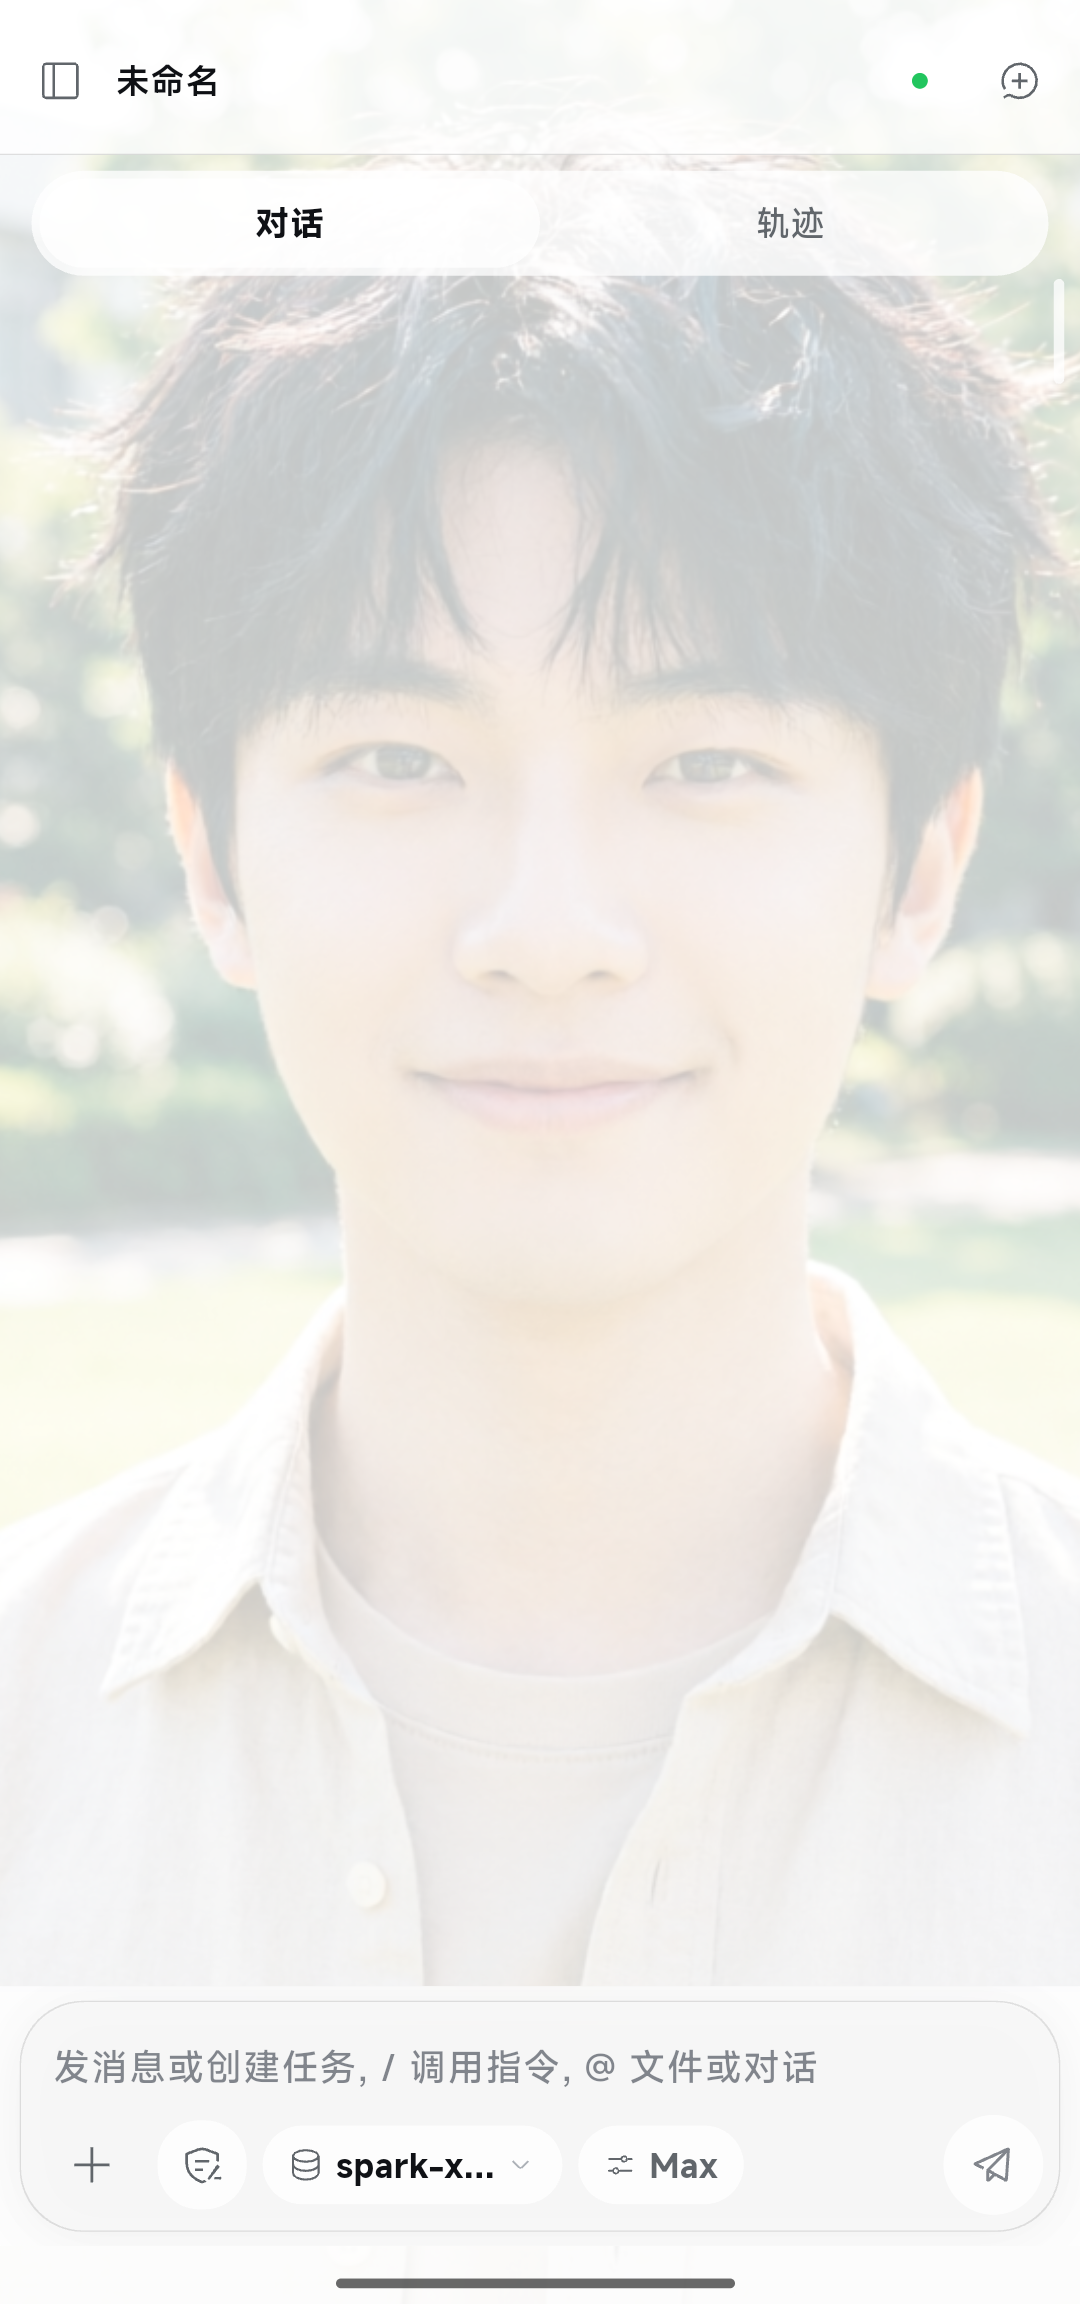
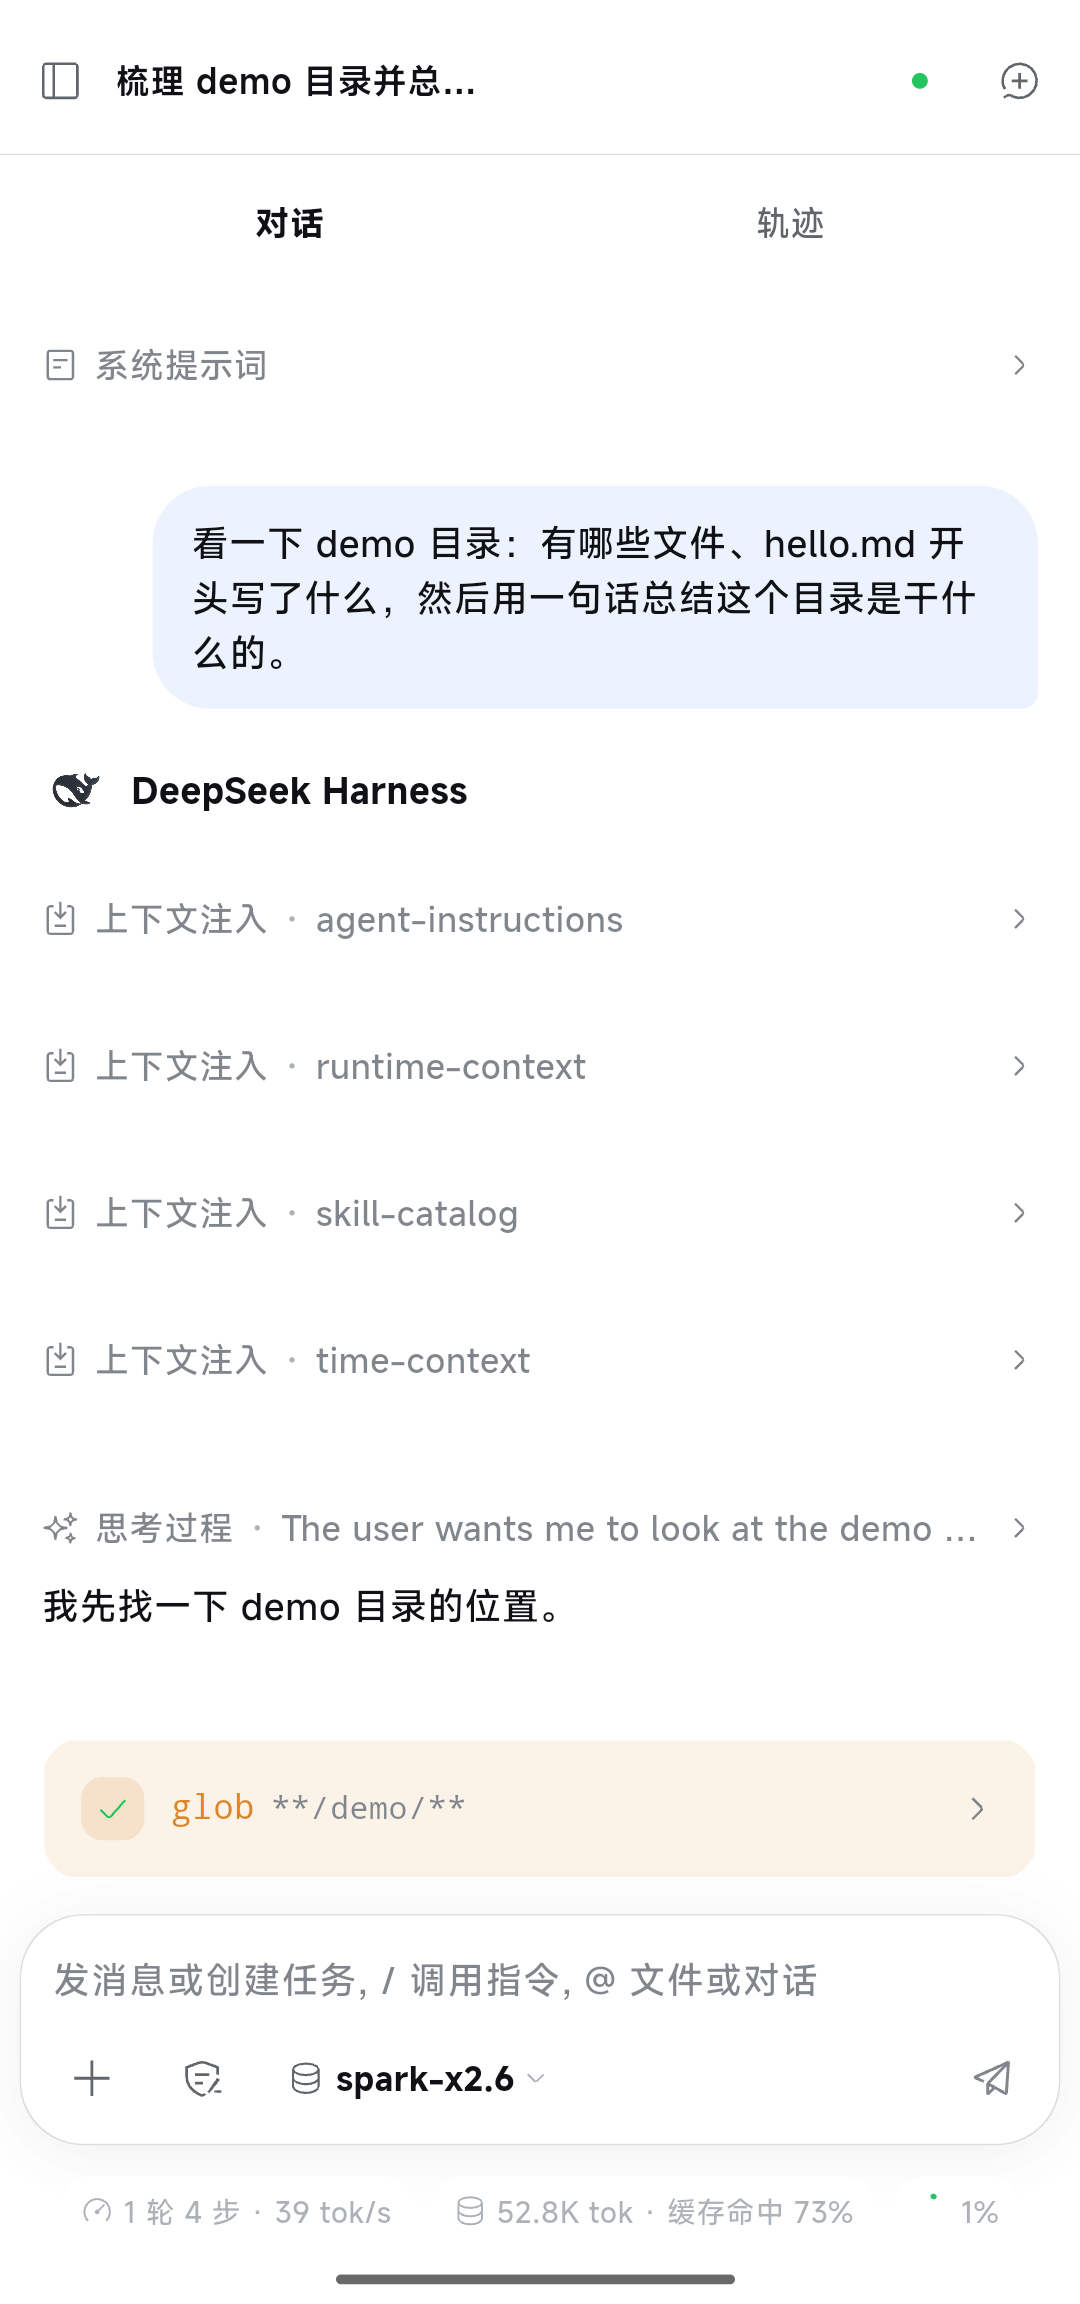
feat(connector): 面板给出 App 下载入口；README 重排换 0.2.10 截图
- 「配对新手机」卡加「还没装手机 App？下载最新版」→ releases/latest
  （插件从 npm 装、App 不在 npm 上，走到出码那一步的人正好缺这个出口）
- 插件版本 0.1.22；zh/en 两份字典同步加键，client-i18n 键集合同步
- README：下载单独成节（App / 插件两条路径各自给出口），截图换成 0.2.10 真机
  （会话页含思考行与工具卡、设置页、面板的已配对设备与配对卡），门禁数字更新
- 笔记 implemented/2026-11-07-download-entry-in-panel.md

diff --git a/connector/client.js b/connector/client.js
@@ -141,6 +141,13 @@ window.__ModuleLoader__.load({
     const CONNECTION = '/api/dsh-mobile/connection'
     /** 查更新（只读；电脑侧代查 npm，见 `src/admin/update.ts`）。 */
     const UPDATE = '/api/dsh-mobile/update'
+    /**
+     * 手机 App 的下载页（GitHub Release 的 latest 永远指向最新一版）。
+     *
+     * 为什么放在面板里：插件是从 npm 装的，App 不是 —— 用户装完插件、看到「配对新手机」
+     * 那一刻手里往往还没有 App。把出口放在同一张卡上，比让人去翻 README 靠谱。
+     */
+    const APP_RELEASES = 'https://github.com/Imzl-zl/deepseek-harness-mobile/releases/latest'
 
     /**
      * 读应答体，**失败也要说人话**。
@@ -215,6 +222,9 @@ window.__ModuleLoader__.load({
       devicesTitle: '已配对设备',
       pairTitle: '配对新手机',
       pairHint: '5 分钟内有效。',
+      // 装了插件不等于装了 App：出口就放在"出码"这张卡上。
+      noAppHint: '还没装手机 App？',
+      downloadApp: '下载最新版',
       // 出码时向中转登记失败 = 这张码只有局域网那条路（契约 §12.1 的 lanOnly）。
       // 必须写在二维码旁边：用户出门 / 切流量之后才发现"配不上"就太晚了。
       pairLanOnly: '中转没登记上：这张码只能在同一 WiFi 下使用（跨网或用流量扫它配不上）',
@@ -370,6 +380,8 @@ window.__ModuleLoader__.load({
       devicesTitle: 'Paired devices',
       pairTitle: 'Pair a new phone',
       pairHint: 'Valid for 5 minutes.',
+      noAppHint: 'No app installed yet?',
+      downloadApp: 'Download the latest build',
       pairLanOnly: 'Not registered with the relay: this code only works on the same Wi-Fi (it will not pair over the internet or mobile data).',
       pairRelayReady: 'Both routes are ready: direct on the same Wi-Fi, or via the relay (registered when the code was issued) when you are away.',
       pairRelayOnly: 'Relay only (registered when the code was issued): it works away from this Wi-Fi too.',
@@ -1977,6 +1989,15 @@ window.__ModuleLoader__.load({
             }, busy === 'pair' ? t('pairing') : t('pair')),
           ),
           h('p', { key: 'd', style: { ...S.label, margin: 0 } }, t('pairHint')),
+          // 「还没装 App？」——放在出码按钮下面：走到这一步的人正好缺这个。
+          h('div', { key: 'dl', style: { display: 'flex', alignItems: 'center', gap: 8, marginTop: 8 } },
+            h('span', { style: { ...S.label, margin: 0 } }, t('noAppHint')),
+            h('button', {
+              key: 'b', type: 'button',
+              style: S.btn,
+              onClick: () => window.open(APP_RELEASES, '_blank', 'noopener'),
+            }, t('downloadApp')),
+          ),
           qr === null
             ? null
             : countdown === null

diff --git a/README.md b/README.md
@@ -2,7 +2,7 @@
 
 <h1 align="center">DSH Mobile</h1>
 
-<p align="center">把 DeepSeek Harness 装进手机：手机端 App + 电脑侧连接器 + 公网中转。</p>
+<p align="center">把 DeepSeek Harness 装进手机：手机端 App + 电脑侧插件 + 公网中转。</p>
 
 <p align="center">
   <a href="https://github.com/Imzl-zl/deepseek-harness-mobile/actions/workflows/ci.yml"><img src="https://github.com/Imzl-zl/deepseek-harness-mobile/actions/workflows/ci.yml/badge.svg" alt="ci"></a>
@@ -14,58 +14,71 @@
 </p>
 
 <p align="center">
-  <img src="docs/assets/app-chat.png" alt="手机端会话页" width="264">
-  <img src="docs/assets/app-settings.png" alt="手机端设置页" width="264">
+  <img src="docs/assets/app-chat.png" alt="手机端会话页：思考行、工具卡与正文" width="258">
+  <img src="docs/assets/app-settings.png" alt="手机端设置页：当前连接与通用偏好" width="258">
 </p>
 
-<p align="center"><sub>手机端 v0.2.3：会话页（新会话）/ 设置页（当前连接 · 通用偏好 · 模型）
-—— 截图与仓库同版本，界面改了会一起换</sub></p>
+<p align="center"><sub>手机端 <b>v0.2.10</b>：一个轮次里「思考」是折叠的一行、工具是逐张卡、正文始终可见；
+设置页管连接与通用偏好。截图与仓库同版本，界面改了会一起换。</sub></p>
 
-## 在手机上用什么
+## 下载
+
+| 你要装的东西 | 从哪拿 | 说明 |
+|---|---|---|
+| **手机 App** | [**最新 Release 的 APK**](https://github.com/Imzl-zl/deepseek-harness-mobile/releases/latest)（`dsh-mobile-vX.Y.Z.apk`） | release 签名，覆盖升级用同一个包；第一次装要允许「未知来源」 |
+| **电脑侧插件** | `dsh plugin add dsh-mobile-connector`，或 Release 里的 `dsh-mobile-connector-X.Y.Z.tgz` | npm 上的版本带 SLSA provenance |
+
+> 装了插件、打开侧边栏「手机」面板，在**配对新手机**那张卡下面就有一枚「下载最新版」按钮 ——
+> 走到出码那一步时顺手就能把 App 装上，不用回来翻 README。
+
+## 手机上能干什么
 
 - **完整的会话**：对话、轨迹、改动卡、文件预览，不是网页缩略版。
+- **思考与过程分层**：推理默认折成一行「思考过程」，工具逐张卡；正文永远在主线上，不会和思考混在一起。
+  生成中过程保持展开，收口后按你的「收起时机」收起 —— 点一下轮次收口行就能展开。
 - **审批与提问就地答**：DSH 的 composer takeover 原样搬过来，不用切回电脑。
 - **子智能体与后台任务**：谁在跑、跑了多久、产出什么，一屏看完。
-- **插件能管**：清单、逐行启停、按包卸载（"是不是内置、能不能卸"由电脑侧的宿主判定，手机只显示它的原话）。
-- **两种连法**：同局域网/Tailscale 直连；出门在外走公网中转（端到端加密，中转只见密文与路由元数据）。
-  中转是**选**出来的：内置一条开箱即用，也可以切成自己的（换回来点一下，不用记域名）。
+- **插件能管**：清单、逐行启停、按包卸载（"是不是内置、能不能卸"由电脑侧宿主判定，手机只显示它的原话）。
+- **两种连法**：同局域网 / Tailscale 直连；出门在外走公网中转（端到端加密，中转只见密文与路由元数据）。
+  中转是**选**出来的：内置一条开箱即用，也可以换成自己的。
 - **一台手机记多台电脑**，同一时刻只服务一台（独占 1:1），切换是显式动作。
 - **两端都能查更新**：设置页「检查更新」（App；启动时静默查一次）与电脑侧面板的「版本」卡
-  （查 npm 上的最新插件版）。**只告诉你有没有新版，不自动装**。
+  （查 npm 上的最新插件版）。**只告诉你有没有新版，不自动装。**
 
 ## 组成
 
 | 目录 | 是什么 | 安装方式 |
 |---|---|---|
-| `app/` | Flutter 手机端：连接层 + 会话界面 | Release 里的 APK |
-| `connector/` | DSH 插件：电脑侧网关 | npm：`dsh plugin add dsh-mobile-connector`<br>或 Release 的 `dsh-mobile-connector-*.tgz` |
+| `app/` | Flutter 手机端：连接层 + 会话界面 | 上面的 Release APK |
+| `connector/` | DSH 插件：电脑侧网关 | npm，或 Release 的 `.tgz` |
 | `relay/` | 公网中转（独立 Node 服务，无构建步骤） | `docker compose up -d` |
 | `protocol/` | 通道协议：握手、AEAD、流控、恢复 | 被上面两者引用 |
 
-<p align="center"><img src="docs/assets/plugin-panel.png" alt="电脑侧插件面板" width="620"></p>
+<p align="center"><img src="docs/assets/plugin-panel.png" alt="电脑侧「手机」面板：已配对设备、版本、配对新手机" width="720"></p>
 
-<p align="center"><sub>电脑侧：「手机」面板——总览（中转 · 在线数 · 直连端口）、连接（中转可选内置/自定义、令牌只在电脑上）、
-通道与地址（逐条启停/删除）、已配对设备（停用/接管/删除）、出配对码</sub></p>
+<p align="center"><sub>电脑侧「手机」面板：已配对设备（停用 / 删除）、插件版本与查更新、出码配对 ——
+下载 App 的入口也在这张卡上。上面还有连接（中转与令牌、直连端口）与通道与地址（逐条启停）。</sub></p>
 
 ## 快速开始
 
 ```bash
-# 1. 电脑侧：装插件，在侧边栏「手机」面板选「内置中转」（或自定义）并填令牌
-dsh plugin --profile <名字> add dsh-mobile-connector
+# 1. 电脑侧：装插件（profile 换成你自己的），在侧边栏「手机」面板里配中转、填令牌
+dsh plugin --profile desktop add dsh-mobile-connector
 
-# 2. 中转（只在需要公网时）
+# 2. 只在需要公网时：把 relay/ 起起来（也可以直接用内置的公共中转，跳过这步）
 cd relay && docker compose up -d --build && docker compose logs -f relay
 
-# 3. 手机：装 Release 里的 APK，扫电脑屏幕上的二维码
+# 3. 手机：装 Release 的 APK → 扫电脑屏幕上的二维码
 ```
 
+同一 WiFi 下不需要中转：出码时会带上局域网地址，手机优先走直连。
 细节：[连接器与中转](docs/subsystems/connector-and-relay.md) · [部署中转](docs/cookbook/relay-on-a-server.md)
 
 ## 安全模型
 
 - 手机**只信任二维码里带出的电脑公钥**，不接受网络下发的公钥。
 - 每连接新密钥（前向保密）；配对秘密一次性，且不进中转。
-- 中转只存 `sha256` 摘要（连接器/设备/管理令牌），只记元数据。
+- 中转只存 `sha256` 摘要（连接器 / 设备 / 管理令牌），只记元数据。
 - 明文 `ws://` 仅限私网或用户显式确认；公网请用反代终结 TLS。
 
 ## 开发与门禁
@@ -73,21 +86,22 @@ cd relay && docker compose up -d --build && docker compose logs -f relay
 | 命令 | 覆盖 |
 |---|---|
 | `node protocol/verify-{fixtures,loopback,vectors}.mjs` | 通道协议 454 / 26 / 49 项 |
-| `cd relay && pnpm typecheck && node --test` | 中转，161 项 |
-| `cd connector && pnpm exec tsc --noEmit && pnpm build && pnpm test` | 插件，831 项 |
-| `cd app && dart format --output=none --set-exit-if-changed lib test integration_test && dart analyze --fatal-infos lib test integration_test && flutter test` | 手机端，1659 项 |
+| `cd relay && pnpm typecheck && node --test` | 中转，183 项 |
+| `cd connector && pnpm exec tsc --noEmit && pnpm build && pnpm test` | 插件，844 项 |
+| `node app/tools/verify-platform-boundary.mjs` | 多端边界，837 项 |
+| `cd app && dart format --output=none --set-exit-if-changed lib test integration_test && dart analyze --fatal-infos lib test integration_test && flutter test` | 手机端，1775 项 |
 
 > `dart format` 是**先决条件**不是风格偏好：超宽的单行 `if (...) return ...;` 会被它折成
 > 两行无括号形式，而 `curly_braces_in_flow_control_structures` 在 `--fatal-infos` 下就是红。
 > 所以顺序永远是 **format → analyze → test**（CI 里同样是这个顺序，先红就没后面了）。
 
-CI（[`ci.yml`](.github/workflows/ci.yml)）跑同一组命令；每次 push 归档一版 debug APK。
-发版见 [release](docs/cookbook/release.md)：`v*` 出 APK + 插件 tgz，`connector-v*` 发 npm。
+CI（[`ci.yml`](.github/workflows/ci.yml)）跑同一组命令；发版见 [release](docs/cookbook/release.md)：
+`v*` 出 APK + 插件 tgz，`connector-v*` 发 npm。
 
 ## 文档
 
 - 协议：[通道协议](docs/subsystems/remote-channel.md) · [配对 v2](docs/subsystems/pairing-v2.md)
-- 端：[连接器与中转](docs/subsystems/connector-and-relay.md) · [手机端通道客户端](docs/subsystems/app-channel-client.md)
+- 端：[连接器与中转](docs/subsystems/connector-and-relay.md) · [手机端通道客户端](docs/subsystems/app-channel-client.md) · [轮组与折叠](docs/subsystems/turn-groups.md)
 - 操作：[部署中转](docs/cookbook/relay-on-a-server.md) · [发版](docs/cookbook/release.md)
 
 ## 友链

diff --git a/.agents/notes/implemented/2026-11-07-download-entry-in-panel.md b/.agents/notes/implemented/2026-11-07-download-entry-in-panel.md
@@ -1,0 +1,31 @@
+# Agent Note: 插件面板里给出 App 的下载入口
+
+Status: implemented
+
+## Problem
+
+插件装完、面板打开，「配对新手机」这一步的下一步是**手机上装 App** —— 但 App 不在 npm 上，
+也不在电脑上，用户手里很可能还没有。README 里有下载地址，可他此刻正盯着面板，
+回头去翻仓库是多余的一跳（2026-11-07 用户原话：需要放一个下载 App 的链接，要不然不知道从哪下载）。
+
+## Decision
+
+1. 「配对新手机」卡在「出配对码」下面加一行：**还没装手机 App？〔下载最新版〕**，
+   按钮把 `https://github.com/Imzl-zl/deepseek-harness-mobile/releases/latest` 开在新标签页。
+2. 指向 `releases/latest` 而不是钉某个版本：Release 资产名带版本号，钉版本就得跟着改代码；
+   `latest` 永远是最新一版，和面板「版本」卡的「检查更新」是同一个出口。
+3. 入口只放在**配对**这张卡上，不再往总览/版本卡重复一遍 —— 同一件事只说一次。
+
+## Alternatives considered
+
+1. **只在 README 里写清楚**
+   - 为何被否：用户走到面板那一刻才是"缺 App"的时刻；README 只能覆盖"先读文档"的人。
+2. **做成二维码（把 APK 地址编成码）**
+   - 为何被否：扫码装 APK 要走系统下载器 + 未知来源授权，比点一下链接再传过去更绕；
+     而且手机若已经能扫码，说明人就在电脑边上，直接点链接更快。
+
+## Consequences
+
+- 插件版本提到 **0.1.22**（面板文案与按钮属于插件产物，不升版用户拿不到）。
+- `client-i18n` 的 zh/en 键集合同步加了 `noAppHint` / `downloadApp`（少一个键那半边界面就是 undefined）。
+- README 重排了一次：**下载**单独成节，App 与插件两条路径各自给出口。

diff --git a/memory.md b/memory.md
@@ -12,6 +12,10 @@
   思考走 `ReasoningRow(running: true)`（摘要 = 最后完成段落首行），正文 `selectable: false`。
   决策笔记 `implemented/2026-11-07-live-message-shape.md`。**未做**：流式块级冻结、
   阅读位置补偿（倒序列表最新端插入/增长会顶走阅读内容，已量到 100 px）。
+- **插件面板给出 App 下载入口（2026-11-07）**：「配对新手机」卡里加「还没装手机 App？下载最新版」
+  → `releases/latest`；插件版本提到 **0.1.22**（面板文案属插件产物）。笔记
+  `implemented/2026-11-07-download-entry-in-panel.md`。README 重排：**下载**单独成节，
+  截图换成 0.2.10 真机（会话 / 设置 / 面板配对卡）。
 - **v0.2.10 已发版**（`app/pubspec.yaml` `0.2.10+5`；Release：`dsh-mobile-v0.2.10.apk`（release 签名）
   + `dsh-mobile-connector-0.1.21.tgz`）：内容 = 流式思考与正文分流（`LiveMessage`，思考不再混进正文）、
   **思考随轮组折叠的两处判据**（答复自带的思考算过程证据 / 未收口的一轮过程保持展开，

diff --git a/docs/cookbook/release.md b/docs/cookbook/release.md
@@ -87,7 +87,7 @@ Publisher `GitHub Actions`、organization or user `Imzl-zl`、repository
 
 | 插件版本 | `engines.dsh` | 服务对象 | 维护状态 |
 |---|---|---|---|
-| `0.1.21` | `>=0.2.2-rc.1 <0.2.3-0` | DSH 0.2.2 线 | 当前线，功能跟进 |
+| `0.1.22` | `>=0.2.2-rc.1 <0.2.3-0` | DSH 0.2.2 线 | 当前线，功能跟进 |
 | `0.1.20` | `>=0.2.1-rc.5 <0.2.2` | DSH 0.2.1 线 | 冻结：只修致命问题 |
 
 两条线同时留在 npm 上。宿主按 `engines.dsh` **逐版本**判定（`plugin-manager` 的
